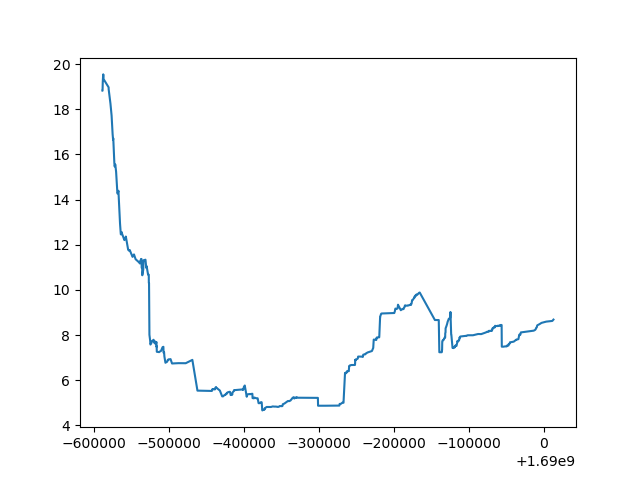
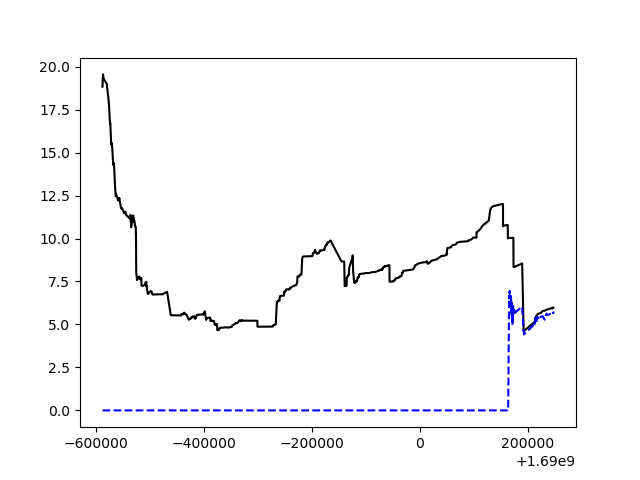
solve too many request

diff --git a/utils.py b/utils.py
@@ -29,8 +29,9 @@ def select_sym(binance, __buying_cond, __pre_cond, tf, limit, wins, symnum):
             buying_cond, pre_cond = __buying_cond, __pre_cond
             actions = inspect_market(binance, sym, 1, buying_cond, print_=False)
             short_only, long_only, buying_cond, _ = actions
-        
-            timing_pos = timing_to_position_score(binance, sym, buying_cond, pre_cond, tf, limit, wins, pr=False)
+            
+            ms = get_ms(binance, sym, tf, limit, wins)
+            timing_pos = timing_to_position_score(binance, ms, sym, buying_cond, pre_cond, tf, limit, wins, pr=False)
             
             timing = False
             # if (timing_pos == SHORT and not long_only)\
@@ -93,8 +94,14 @@ def get_curr_pnl(binance, sym):
 
 
 def timing_to_close(binance, sym, status, m4_shape, 
-                    m1, satisfying_price, max_loss, min_profit, cond1, howmuchtime):
+                    ms, satisfying_price, max_loss, min_profit, buying_cond, howmuchtime, tf, limit, wins,):
+    m1 = ms[0]
     curr_pnl, profit = get_curr_pnl(binance, sym.replace("/", ""))
+    
+    timing_pos = timing_to_position_score(binance, ms, sym, buying_cond, 0, tf, limit, wins, pr=False)
+    if timing_pos:
+        return False, curr_pnl
+
     suddenly = isitsudden(m1, status)
     if howmuchtime % 300 == 0 or (howmuchtime < 50 and howmuchtime % 10 ==0):
         print(f"{sym} {howmuchtime} {status_str(status)}] PNL: {profit} ({pnlstr(round(curr_pnl, 2))}), SAT_P: {satisfying_price}")
@@ -125,10 +132,10 @@ def timing_to_close(binance, sym, status, m4_shape,
         return False, curr_pnl
 
 
-def timing_to_position_score(binance, sym, buying_cond, pre_cond, tf, limit, wins, pr=True):
+def timing_to_position_score(binance, ms, sym, buying_cond, pre_cond, tf, limit, wins, pr=True):
     # 더 점수가 높다의 뜻?
 
-    m1, m2, m3 , m4 = get_ms(binance, sym, tf, limit, wins)
+    m1, m2, m3 , m4 = ms
 
     curr_mvmt, curr_diff = curr_movement(m1, minute=5)  # 5개 시간봉의 움직임
     big_shape = np.diff(m4)[-3:]
@@ -143,15 +150,16 @@ def timing_to_position_score(binance, sym, buying_cond, pre_cond, tf, limit, win
     if mm1[-1] > buying_cond and not short_only and curr_mvmt == FALLING \
         and np.all(big_shape > 0):
         print(mm1[-1], buying_cond, not short_only , curr_mvmt == FALLING, np.all(big_shape > 0) , 
-            curr_diff < CALM*1.3, curr_diff, CALM)
+            np.abs(curr_diff) < CALM*1.3, curr_diff, CALM)
         if np.abs(curr_diff) < CALM*1.3:
             return SHORT
         else:
             return LONG
     elif mm1[-1] < -buying_cond and not long_only and curr_mvmt == RISING \
         and np.all(big_shape < 0):
-        print(mm1[-1], -buying_cond, not long_only , curr_mvmt == RISING, np.all(big_shape < 0) , 
-            curr_diff < CALM*1.3, curr_diff, CALM)
+        if pr:
+            print(mm1[-1], -buying_cond, not long_only , curr_mvmt == RISING, np.all(big_shape < 0) , 
+                np.abs(curr_diff) < CALM*1.3, curr_diff, CALM)
         if np.abs(curr_diff) < CALM*1.3:
             return LONG
         else:
@@ -278,14 +286,17 @@ def log_wallet_history(balance):
         wallet_info = np.load('wallet_log.npy')
         wallet_info = np.concatenate(
                             [wallet_info, 
-                            [[time.time()], [float(balance['info']['totalWalletBalance'])]]],
+                            [[time.time()], 
+                            [float(balance['info']['totalWalletBalance'])],
+                            [float(balance['info']['totalMarginBalance'])] ]],
                             axis=1
                             )  ## Date
     except FileNotFoundError:
-        wallet_info = np.array([[time.time()], [float(balance['info']['totalWalletBalance'])]])
+        wallet_info = np.array([[time.time()], [float(balance['info']['totalWalletBalance'])], [float(balance['info']['totalMarginBalance'])]])
     np.save('wallet_log.npy', wallet_info)
     plt.figure()
-    plt.plot(wallet_info[0], wallet_info[1])
+    plt.plot(wallet_info[0], wallet_info[1], 'k-')
+    plt.plot(wallet_info[0], wallet_info[2], 'b--')
     plt.savefig("wallet_log.png")
     plt.close()
 

diff --git a/trader.py b/trader.py
@@ -29,7 +29,7 @@ class Trader():
         # 갑자기 올랐을때/ 떨어졌을 때 satisfying_profit 넘으면 close
         self.satisfying_profit = 0.75*self.lev   # 20 일때 15%
 
-        self.time_interval = 2
+        self.time_interval = 3
         self.tf_ = int(self.tf[:-1])
         self.set_lev = True                     # 기존거 가져오는경우 다시 set하면 에러나기때문
         self.binance.load_markets()
@@ -136,16 +136,13 @@ class Trader():
         pnl_lastupdate = 0
         while 1:
             # importlib.reload(utils)
-            m1, m2, m3, m4 = get_ms(self.binance, self.sym, self.tf, self.limit, self.wins)
+            ms = get_ms(self.binance, self.sym, self.tf, self.limit, self.wins)
             
-            # zigzag, zzdic = handle_zigzag(m1, hour=4, tf=float(self.tf[0]))
-            # print(zzdic['where_h'])
-            # print(zzdic['where_l']) 
             if self.missed_timing > 10:
                 return 0
             if not self.status:
             
-                self.status = timing_to_position_score(self.binance, self.sym, buying_cond=self.buying_cond, pre_cond=self.pre_cond, tf=self.tf, limit=self.limit, wins=self.wins)
+                self.status = timing_to_position_score(self.binance, ms, self.sym, buying_cond=self.buying_cond, pre_cond=self.pre_cond, tf=self.tf, limit=self.limit, wins=self.wins)
 
                 try:
                     # print("롱 숏 바뀜")
@@ -170,12 +167,13 @@ class Trader():
                     self.satisfying_profit *= 0.8
                     self.satisfying_profit = round(max(self.satisfying_profit, self.min_profit), 2)
 
-                m4_shape = m4_turn(m4)
+                m4_shape = m4_turn(ms[3])
                 
                 # curr pnl을 return하는건 그냥임
                 close_position, curr_pnl = timing_to_close(binance=self.binance, sym=self.sym, status=self.status, 
-                        m4_shape=m4_shape, m1=m1, satisfying_price=self.satisfying_profit, 
-                        max_loss=self.max_loss, min_profit=self.min_profit, cond1=self.cond1, howmuchtime=iter)
+                        m4_shape=m4_shape, ms=ms, satisfying_price=self.satisfying_profit, 
+                        max_loss=self.max_loss, min_profit=self.min_profit, buying_cond=self.buying_cond, howmuchtime=iter,
+                        tf=self.tf, limit=self.limit, wins=self.wins)
                 self.pre_pnls.append(curr_pnl)
 
                 if len(self.pre_pnls) > 50 and time.time() - pnl_lastupdate > 60 and (curr_pnl > self.pre_pnls[-30]) and curr_pnl > 0:
